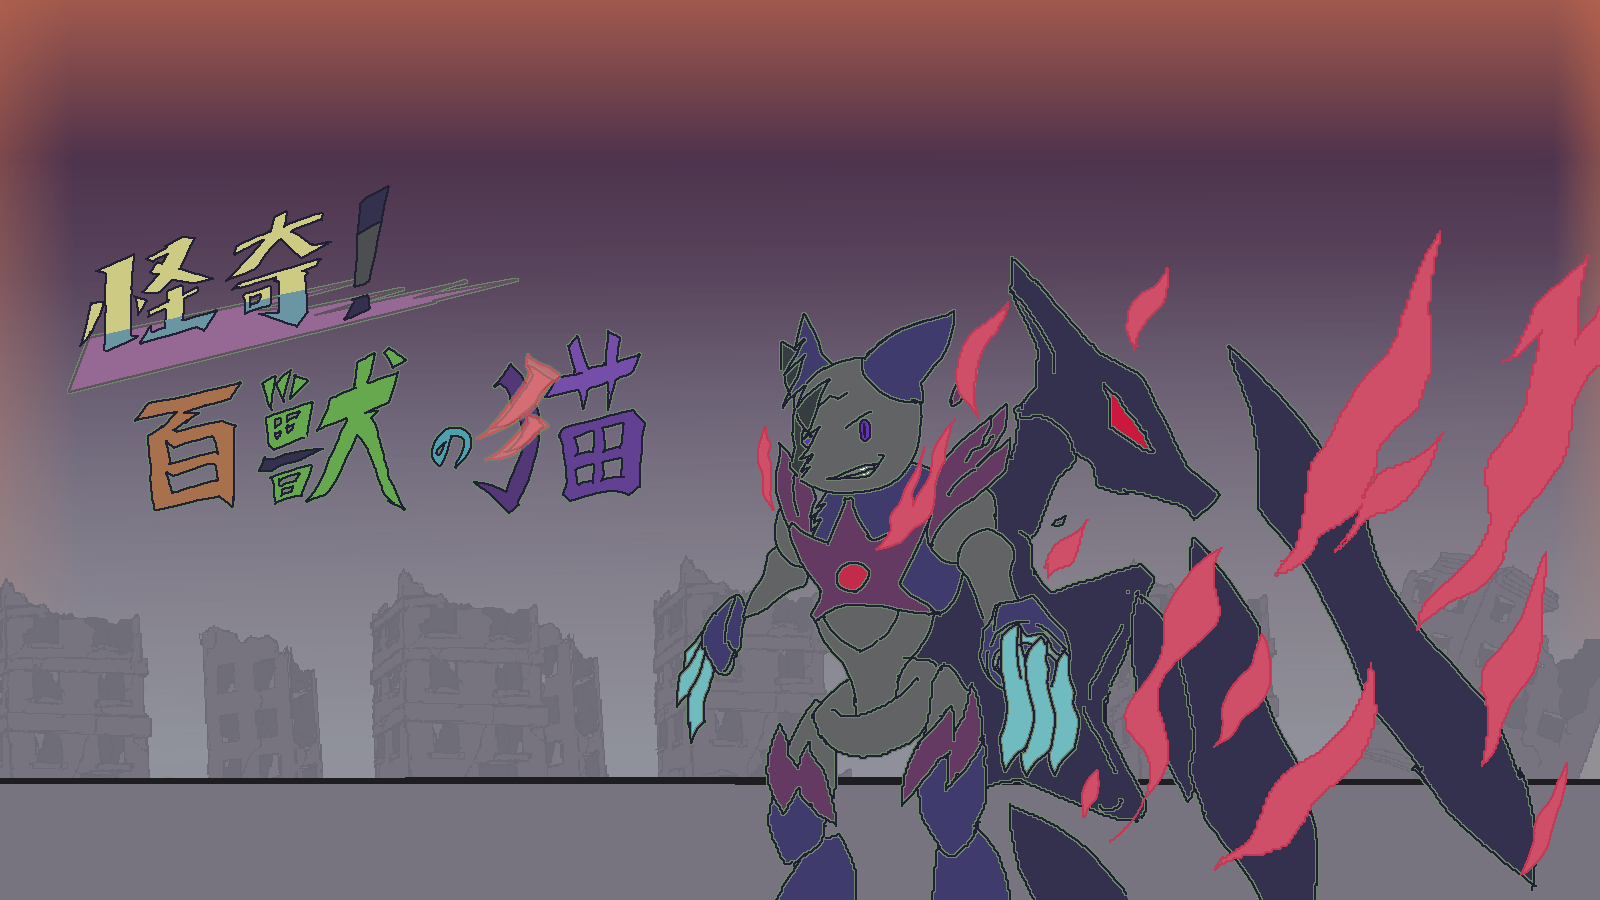
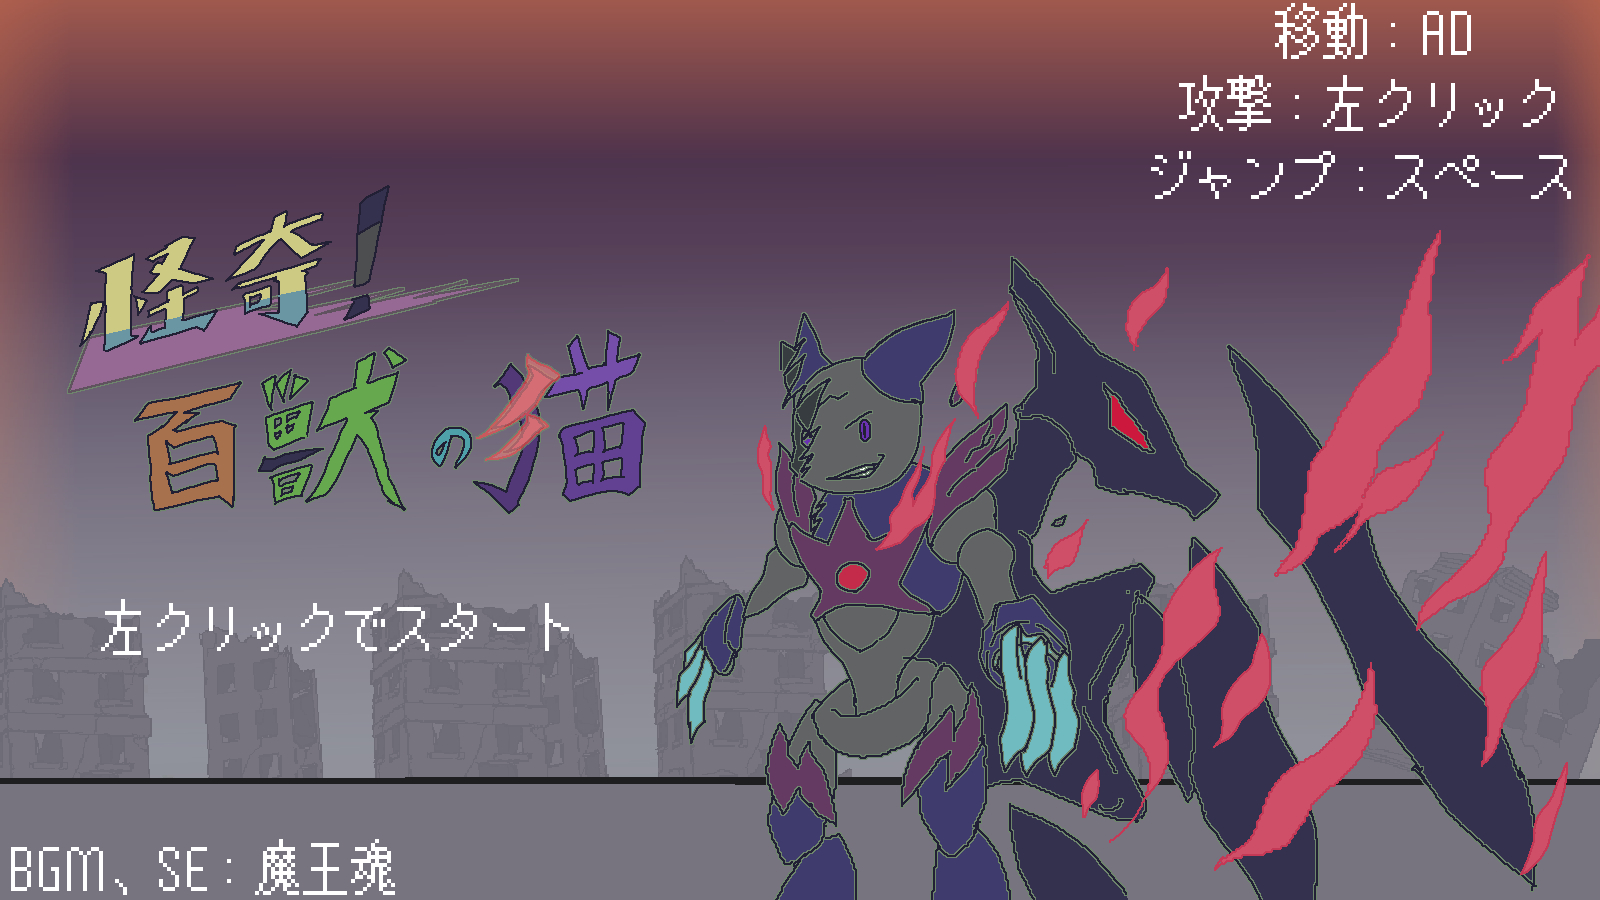
タイトルに突貫で説明追加

diff --git a/main.cpp b/main.cpp
@@ -994,7 +994,7 @@ int WINAPI WinMain(HINSTANCE, HINSTANCE, LPSTR, int) {
         switch (scene)
         {
         case TITLE:
-            Novice::DrawSprite(0, 0, title, 1.2f, 1.2f, 0.0f, WHITE);
+            Novice::DrawSprite(0, 0, title, 0.96f, 0.96f, 0.0f, WHITE);
             break;
         case GAME:
             //背景描画
